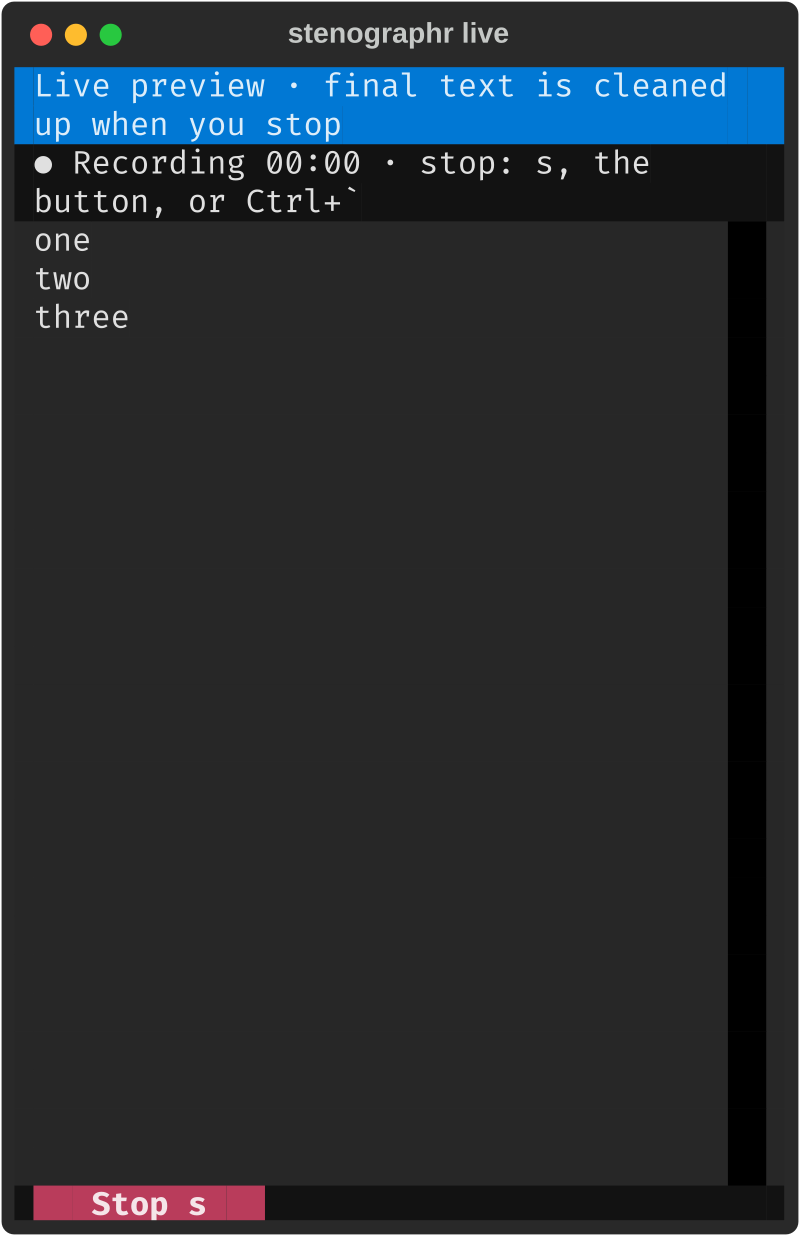
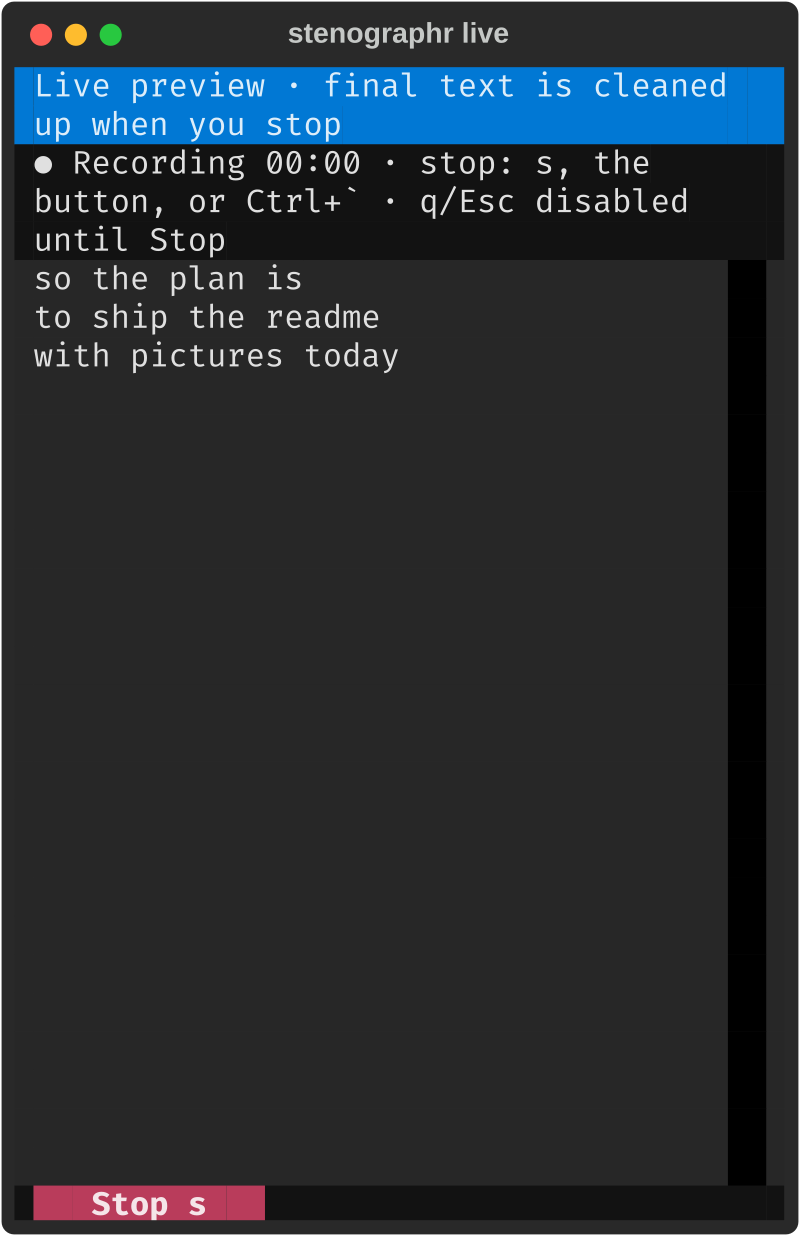
README with pictures: live GIF, size table, Append/Send, notes, recall; docs/make-media.sh regenerates them

Changed region(s): [[0.0312, 0.1845, 0.3438, 0.3074], [0.5312, 0.1537, 0.875, 0.1845], [0.3438, 0.2152, 0.5, 0.3074]]

diff --git a/README.md b/README.md
@@ -1,180 +1,118 @@
 # stenographr
 
-Local speech-to-text. Runs entirely on this machine; nothing is uploaded.
+Local speech-to-text for Linux: dictate into a clipboard or a Claude Code pane, keep notes, transcribe video clips. Nothing leaves the machine.
 
-Engine: NVIDIA Parakeet TDT 0.6B v2 (int8) through [sherpa-onnx](https://k2-fsa.github.io/sherpa/onnx/),
-with Silero VAD to cut long recordings into utterances. CPU or GPU, chosen per file.
+![A live session: Ready, Start, words appear, Stop, clean text, Copy](docs/img/live.gif)
+
+Engines: NVIDIA Parakeet TDT 0.6B v2 (int8) through [sherpa-onnx](https://k2-fsa.github.io/sherpa/onnx/) with Silero VAD;
+the live preview uses the Nemotron streaming model. CPU or GPU.
 
 ## Install
 
 ```sh
 uv tool install --editable .          # CPU only; `stenographr` lands on PATH
 uv tool install --editable ".[gpu]"   # + CUDA 13 sherpa-onnx and NVIDIA libs (~1.6 GB of wheels, no sudo)
+scripts/get-models.sh                 # VAD, Parakeet and the live-preview model into ~/.local/share/stenographr/models
 ```
 
-Models are downloaded once into `~/.local/share/stenographr/models` (the only step that needs the network):
+`get-models.sh` is the only step that needs the network; it prints sizes, skips what exists and asks first (`DIR` = another
+folder, `-y` = no question). Dictation needs `pw-record`, `ffmpeg` (libopus), `wl-copy`, `kitty` (for the shortcut) and `tmux` (Claude buttons).
+The mic is a fixed PipeWire name, `scarlett-mic` ([docs/audio-setup.md](docs/audio-setup.md)).
+
+## Quick start
 
 ```sh
-scripts/get-models.sh          # VAD, Parakeet, and the Nemotron live-preview model
-scripts/get-models.sh DIR      # another folder (if [paths] models is set in the config); -y skips the question
+stenographr live            # press Start (Enter), talk, Stop (s), Copy (y), paste anywhere
+stenographr keybinding install   # Ctrl+` opens a popup that records at once
 ```
 
-It prints each download's size, skips what is already there and asks before downloading.
+## live
 
-## Use
+A [Textual](https://textual.textualize.io/) screen. It shows each phrase as you speak (lowercase, no punctuation); when you stop it
+re-transcribes the whole take for proper sentences. **Copy** puts the text on the clipboard (plus a trailing space), **Append** and **Send**
+type it into the Claude Code pane of the tmux session. Only one instance records at a time; the model loads once per app.
+It adapts to the pane size (a tall narrow sidebar works):
+
+![80x24 live screen, review step](docs/img/live-review-80x24.png)
+
+| | Ready | Recording | Review |
+|---|---|---|---|
+| 85x12 | ![](docs/img/live-ready-85x12.png) | ![](docs/img/live-recording-85x12.png) | ![](docs/img/live-review-85x12.png) |
+| 40x30 | ![](docs/img/live-ready-40x30.png) | ![](docs/img/live-recording-40x30.png) | ![](docs/img/live-review-40x30.png) |
+
+**Append** types the text and a space, no Enter, so you can add several takes. **Send** types the text and presses Enter.
+**Send is the only place stenographr ever presses Enter.**
+
+| after Append (text waits in the input) | after Send (submitted) |
+|---|---|
+| ![](docs/img/pane-append.png) | ![](docs/img/pane-send.png) |
+
+Every capture is a session block in the daily file with its audio (`<archive>/audio/*.opus`, never deleted). Details: [SPEC.md](SPEC.md).
+
+## notes
+
+`stenographr notes` (alias `steno`) dictates in the terminal until Ctrl+C: each sentence is printed and appended at once to
+`steno-YYYY-MM-DD.txt` (in a git repo: `<repo root>/steno/`, added to `.gitignore`) and to the daily file. Timestamps go only into those files.
+
+![notes: terminal and the resulting file](docs/img/notes-session.png)
+
+## recall
+
+`stenographr recall [N]` lists the newest pieces of the day (sessions, clips) and copies the one you pick; `recall 2` copies piece 2.
+
+![recall](docs/img/recall.png)
+
+## clip
 
 ```sh
-stenographr clip VIDEO... [--out DIR] [--recorded-at "YYYY-MM-DD HH:MM"] [--device cpu|gpu|auto]
-stenographr srt FILE.txt              # writes FILE.srt next to it (replaces an existing one; never automatic)
-stenographr --version
-stenographr update                    # from any directory: git pull --ff-only the source checkout (see below)
-```
+$ stenographr clip 20261109_083630.mp4
+/home/me/videos/20261109_083630.txt
+$ cat 20261109_083630.txt
+# 20261109_083630 · recorded 2026-11-09 08:36 · 00:25:15
+source: /home/me/videos/20261109_083630.mp4
+engine: parakeet-tdt-0.6b-v2-int8 (gpu) · transcribed 2026-11-09 08:37
 
-`update` prints the source path, branch, commit and how far it is ahead/behind `origin` (after a `git fetch`). It only
-pulls when the checkout is on a clean `main` (never stashes, resets or switches branches), reruns
-`uv tool install --editable ".[gpu]" --force` if `pyproject.toml` changed, and ends by listing the running
-`stenographr live` instances (pid, popup or tmux pane) that need a restart. It never stops them.
-
-`clip` writes `DIR/<basename>.txt` (default `DIR`: the video's own folder) and an archive copy (flat folders, easy to
-prune by hand):
-
-- Samsung name: `<archive>/clips/clip-YYYY-MM-DD-HHMMSS<suffix>.txt`, the suffix being whatever follows the timestamp
-  (`20251127_155055_001.mp4` -> `clip-2025-11-27-155055_001.txt`).
-- Anything else: `<archive>/other/YYYY-MM-DD-<stem>.txt` (`some-talk.mp4` -> `other/<recording date>-some-talk.txt`).
-
-A source file gets at most one transcript: if either file already exists, that video is refused (the message gives
-the `rm` command to redo it), the other videos still run, and the exit code is 1. Nothing is ever overwritten. A
-video with no audio stream gets a normal `.txt` whose only line is `(no audio)` (so it counts as done); one with audio
-but no speech gets the header and no lines. The model is loaded once per run, however many videos are given.
-(`srt` is the exception: it replaces an existing `.srt`.)
-
-Every file `clip` handles also adds one line to the day's manifest, `<archive>/steno-YYYY-MM-DD.txt` (today's date,
-append only):
-
-```
+[00:00:00 → 00:00:03 | 08:36:30] Remind me to book the venue.
+$ cat /data/transcripts/steno-2026-11-09.txt        # the daily manifest, one line per file
 clip: 2026-11-09 08:37:05 · 20261109_083630 → clips/clip-2026-11-09-083630.txt
-other: 2026-11-09 09:10:00 · some-talk → other/2026-11-08-some-talk.txt
-clip: 2026-11-09 08:40:00 · 20261109_090000 · FAILED: see steno.log
-clip: 2026-11-09 08:41:00 · 20261109_083630 · refused: already transcribed
 ```
 
-The design is in [SPEC.md](SPEC.md). Transcript format:
+`--out DIR`, `--recorded-at "YYYY-MM-DD HH:MM"` and `--device cpu|gpu|auto` are optional. One transcript per video: if it exists the video is
+refused with the `rm` to redo it (exit 1), nothing is overwritten. A video without audio gets `(no audio)`. The GPU is used only when it is free enough; otherwise CPU.
 
-```
-# 20261108_063820 · recorded 2026-11-08 06:38 · 00:25:15
-source: /path/to/20261108_063820.mp4
-engine: parakeet-tdt-0.6b-v2-int8 (gpu) · transcribed 2026-11-08 10:17
+## srt
 
-[00:00:00 → 00:00:03 | 06:38:20] Alright, it's Sunday, November eighth.
-```
+`stenographr srt FILE.txt` writes `FILE.srt` next to it (replacing an existing one; never automatic).
 
-The first two times are offsets into the video, the third is time of day. Recording start comes from a
-Samsung file name (`YYYYMMDD_HHMMSS`, any suffix), else `--recorded-at`, else the file's mtime.
+## keybinding
 
-## Dictation
+`stenographr keybinding install` adds the GNOME shortcut Ctrl+` = `stenographr live --toggle`; `remove` deletes only that entry.
+It is global, so it takes Ctrl+` from apps that use it.
 
-Needs `pw-record`, `ffmpeg` (libopus), `wl-copy`, `kitty` (for the shortcut), `tmux` (only for the Claude buttons); records from the PipeWire node `scarlett-mic`
-(see [docs/audio-setup.md](docs/audio-setup.md)), channel 1. Suggested aliases:
+## update
 
-```sh
-alias steno='stenographr notes'
-alias recall='stenographr recall'
-```
-
-- `stenographr live`: a Textual screen that never types, except the Append and Send buttons. It shows each phrase as you speak (and
-  appends it to the daily file), and when you stop it re-transcribes the whole session in one pass to get whole
-  sentences. Two kinds of instance, and several can be open at once:
-  - **Loop** (`stenographr live` in a terminal or tmux pane): opens on **Ready** (mic closed). **Start** (Enter or `r`) ->
-    recording -> **Stop** (`s`) -> clean text with **Copy (y)** (clipboard plus a trailing space, back to Ready), **Claude append (a)**
-    (types the text plus a space into that tmux session's Claude Code input, no Enter, so you can append several takes) and
-    **Claude send (e)** (types the text and presses Enter: submits everything in the input; the only Enter stenographr ever sends);
-    both back to Ready. The session's name is at the right end of the blue bar. **New (r)**
-    (nothing delivered, back to Ready) and **Close (q / Esc)**. Ready shows "Last: sent to claude alpha · 22:14". The model
-    loads once per app. Each capture is its own session block and audio file.
-  - **Popup** (opened by Ctrl+`, which runs `stenographr live --toggle`): a kitty window, 80x25, that records at once;
-    Stop gives **Copy**, **Claude append**, **Claude send** and **Close**, then the window closes. Ctrl+` while a popup is recording stops
-    it; otherwise it does nothing while a popup is open; it never touches loop instances.
-  - **One recording at a time:** starting while another instance records shows "Recording in <where>. Stop it and record
-    here?" (**Stop it and record here** / **Cancel**). Stop it makes the other instance stop and show its own clean text;
-    it stays open.
-  The buttons and text reflow with the pane size (a tall narrow sidebar works). Closing a window any other way stops it without delivering; the live lines and the audio are already saved.
-- `stenographr notes` (`steno`): live in the terminal until Ctrl+C. Each sentence is printed, and appended at once
-  to the notes file and to the daily file. Inside a git repo the notes file is `<repo root>/steno/steno-YYYY-MM-DD.txt`
-  (and `steno/` is added to the repo's `.gitignore` if git isn't ignoring it yet); elsewhere it is
-  `./steno-YYYY-MM-DD.txt`. The header line `stenographr notes · <folder>` is written when the file is created.
-- `stenographr recall [N]` (`recall`): works on one daily file (today's, else the latest with anything in it). It
-  prints `steno-DATE.txt: N pieces`, lists the newest 10 (sessions and clip/other lines), and asks which to copy: a
-  number copies it, `a` lists all, Enter or `q` exits. `recall 2` copies piece 2 directly. A clip piece copies that
-  transcript's text.
-
-Every live and notes session also keeps its audio: `<archive>/audio/YYYY-MM-DD-HHMMSS-<mode>.opus` (mono, 48 kHz, Opus
-96 kbps, about 0.7 MB per minute, encoded while recording so a crash still leaves it). The session's start line in the
-daily file points to it; its time zero is the text's time zero. If the audio can't be saved the session still runs and
-the start line says `audio: none`. Needs ffmpeg with libopus.
-
-Only the kept records carry times: each sentence line in the daily and notes files starts with `[HH:MM:SS]` (when it
-was said). The terminal output, live screen, clipboard, text sent to Claude and recall output never have them.
-
-Block format (details in [SPEC.md](SPEC.md)):
-
-```
-start: 2026-11-10 20:06:00 · live · unknown · audio/2026-11-10-200600-live.opus
-[20:06:01] <live phrase>
-clean:
-[20:06:01] <clean sentence or paragraph>
-end: 2026-11-10 20:07:30 · 1m30s · ok · copied
-```
-
-The microphone and channel are in `[dictation]` of the config (`mic = "scarlett-mic"`, `channel = 1`).
-
-### Ctrl+` shortcut
-
-```sh
-stenographr keybinding install     # adds "stenographr dictation" = <Control>grave -> <path>/stenographr live --toggle
-stenographr keybinding remove      # removes only that entry
-```
-
-By hand: Settings > Keyboard > View and Customize Shortcuts > Custom Shortcuts > +, name "stenographr dictation",
-command = the output of `command -v stenographr` followed by ` live --toggle`, shortcut Ctrl+`. To undo, delete that entry
-there. Note it is a global shortcut, so it takes Ctrl+` away from apps that use it (e.g. editors' terminal toggle).
-
-## Device selection
-
-Checked before each file with `--device auto`. The GPU is used only if `nvidia-smi` exists, a CUDA-enabled
-sherpa-onnx is installed, free VRAM >= `vram_need_mib + vram_margin_mib`, GPU utilization is below
-`max_gpu_util_pct`, and none of `busy_processes` is running (default: Kdenlive's render, `melt`/`melt-7`/
-`kdenlive_render`). Otherwise CPU. If a GPU run fails the file is redone on the CPU.
+`stenographr update` fast-forwards the source checkout (only a clean `main`), reinstalls if `pyproject.toml` changed, and lists the running
+`live` instances to restart. It never stops them.
 
 ## Config
 
-`~/.config/stenographr/config.toml` (all keys optional):
+`~/.config/stenographr/config.toml`, every key optional:
 
 ```toml
 [paths]
 models  = "~/.local/share/stenographr/models"
 archive = "/data/transcripts"
-
 [engine]
 name = "parakeet-tdt-0.6b-v2-int8"
-num_threads = 8
-batch_size = 0          # 0 = auto (GPU 1, CPU 8)
-
 [device]
-device = "auto"
-vram_need_mib = 1000
-vram_margin_mib = 500
-max_gpu_util_pct = 30
-busy_processes = ["melt", "melt-7", "kdenlive_render"]
+device = "auto"            # `live` and `notes` default to cpu
+[dictation]
+mic = "scarlett-mic"
+channel = 1
 ```
 
-## Log
+## More
 
-`<archive>/steno.log`: one plain-text line per event: `time level file message` (start, device and why,
-timing, finish, errors).
-
-## Tests
-
-`hyperbeam stenographr test` (runs `bash tests/run-tests.sh` in the lab; offline, no model; fake engine and fake `nvidia-smi`/`ffmpeg`/`ffprobe`).
-If no python with numpy and textual is found, it makes a `.venv` with uv.
-
-The two Scarlett 2i2s need fixed PipeWire names (`scarlett-mic`); the WirePlumber rule and its install are in [docs/audio-setup.md](docs/audio-setup.md).
+[SPEC.md](SPEC.md) (behaviour and formats) · [docs/DECISIONS.md](docs/DECISIONS.md) (why) · [docs/audio-setup.md](docs/audio-setup.md) ·
+`bash tests/run-tests.sh` (offline; `hyperbeam lab run --why "stenographr tests" -- bash tests/run-tests.sh`) ·
+`docs/make-media.sh` regenerates `docs/img` in the lab.

diff --git a/CLAUDE.md b/CLAUDE.md
@@ -29,6 +29,7 @@ downloaded once, by hand). Read the SPEC.md section for what you change, and upd
 | `docs/audio-setup.md` | Scarlett/WirePlumber setup |
 | `SPEC.md` | Behaviour spec: layout, formats, what is built and open |
 | `docs/decisions/` | One file per design decision; `docs/DECISIONS.md` is its generated index, never edited by hand |
+| `docs/img/`, `docs/make-media.sh` | README pictures (GIF, PNGs) and the script that regenerates them in the lab (fake engine, fakes from `tests/fakebin`; writes only under `docs/img`) |
 | `IDEAS.md` | Open / Done ideas |
 | `tests/` | `run-tests.sh` (runs `tests/sections/*.sh` in parallel; helpers in `lib.sh`, `lib-dictation.sh`); fakes in `tests/fakebin/` (and `tests/fakeupd/` for `update`) plus a fake engine |
 | `bench/` | Benchmark script (real data, outputs to /tmp only) |
